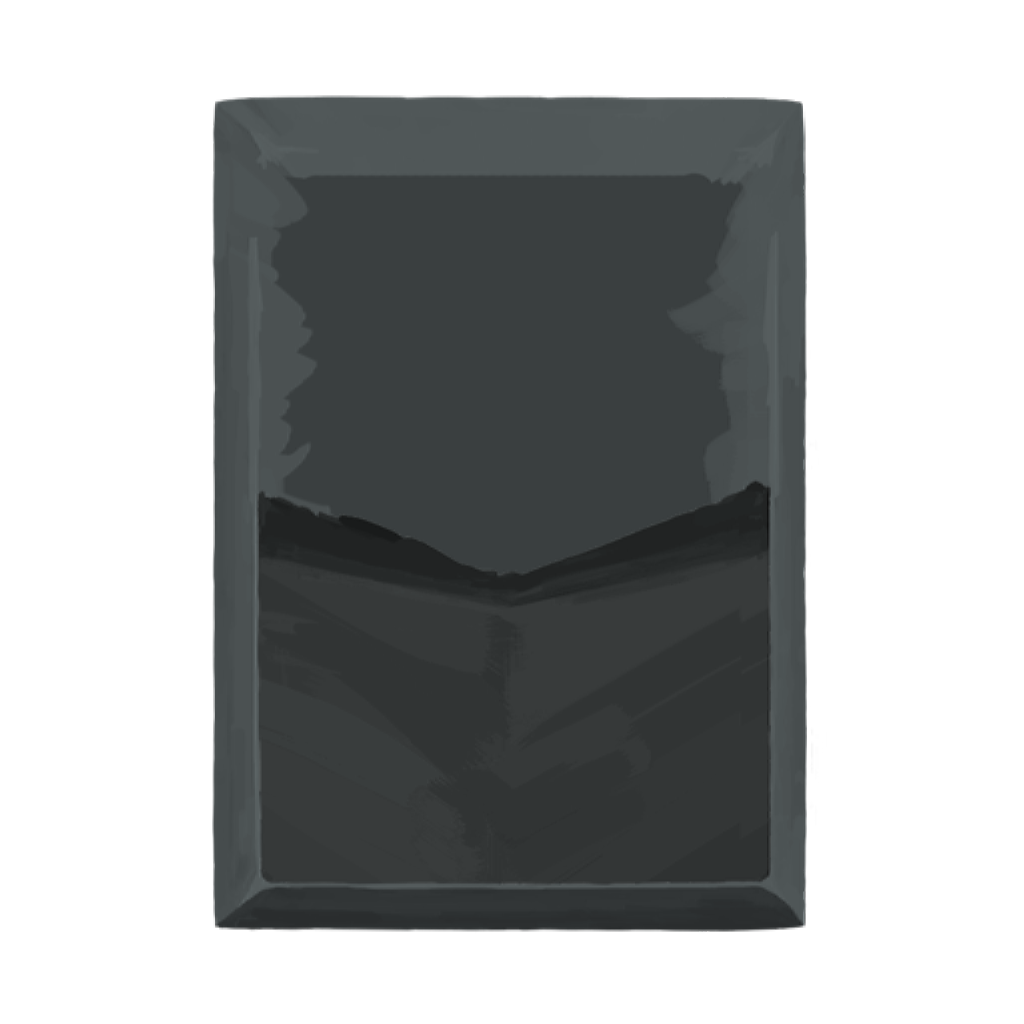
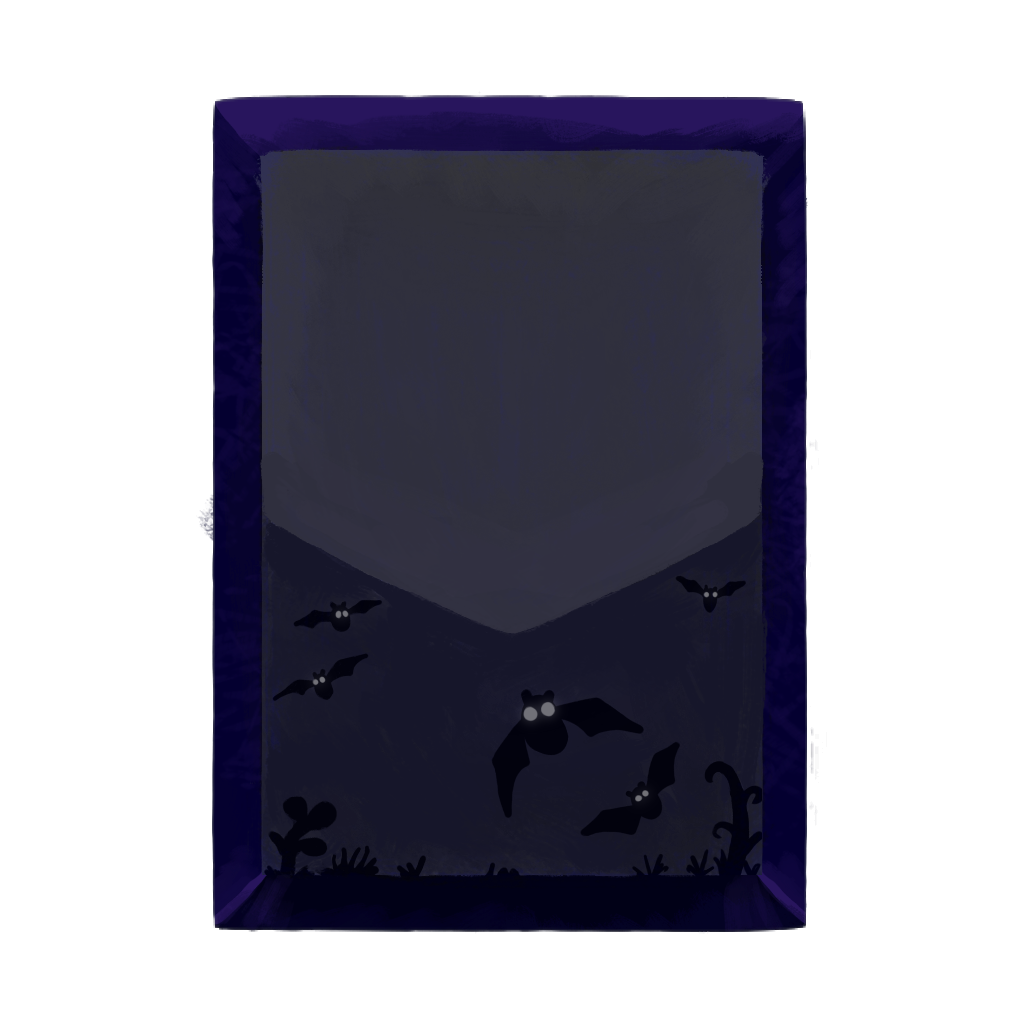
Reworked Fireball card to have its own background and (fake) type.

diff --git a/src/main/java/wibblywitch/cards/spellcards/AbstractSpellCard.java b/src/main/java/wibblywitch/cards/spellcards/AbstractSpellCard.java
@@ -1,0 +1,54 @@
+package wibblywitch.cards.spellcards;
+
+import basemod.patches.com.megacrit.cardcrawl.screens.compendium.CardLibraryScreen.NoCompendium;
+import com.badlogic.gdx.graphics.g2d.SpriteBatch;
+import com.megacrit.cardcrawl.cards.AbstractCard;
+import com.megacrit.cardcrawl.characters.AbstractPlayer;
+import com.megacrit.cardcrawl.core.Settings;
+import com.megacrit.cardcrawl.monsters.AbstractMonster;
+import wibblywitch.cards.BaseCard;
+import wibblywitch.character.WibblyWitch;
+import wibblywitch.util.CardStats;
+
+import static wibblywitch.WibblyWitchMod.characterPath;
+
+@NoCompendium
+public class AbstractSpellCard extends BaseCard {
+    public static final String ID = makeID(AbstractSpellCard.class.getSimpleName());
+    public static final CardStats info = new CardStats(
+            WibblyWitch.Enums.CARD_COLOR,
+            AbstractCard.CardType.SKILL,
+            AbstractCard.CardRarity.SPECIAL,
+            AbstractCard.CardTarget.NONE,
+            -2
+    );
+    public AbstractSpellCard() {
+        // This shouldn't ever happen, it's just here to make the game happy.
+        super(ID, info);
+    }
+
+    public AbstractSpellCard(String newID) {
+        super(newID, info);
+        // Spell cards can use unique backgrounds!
+        setBackgroundTexture(characterPath("cardback/bg_attack.png"), characterPath("cardback/bg_attack_p.png"));
+    }
+
+    @Override
+    public void render(SpriteBatch sb) {
+        // Cursed solution, avert your eyes.
+        String oldText = TEXT[1];
+        TEXT[1] = "Spell";
+        if (!Settings.hideCards) {
+            this.render(sb, false);
+        }
+        TEXT[1] = oldText;
+    }
+
+    @Override
+    public void use(AbstractPlayer abstractPlayer, AbstractMonster abstractMonster) {
+    }
+
+    public AbstractCard makeCopy() {
+        return new AbstractSpellCard(ID);
+    }
+}

diff --git a/src/main/java/wibblywitch/cards/PrepareFireball.java b/src/main/java/wibblywitch/cards/PrepareFireball.java
@@ -1,22 +1,20 @@
 package wibblywitch.cards;
 
-import com.megacrit.cardcrawl.actions.AbstractGameAction;
-import com.megacrit.cardcrawl.actions.common.DamageAction;
-import com.megacrit.cardcrawl.actions.defect.ChannelAction;
 import com.megacrit.cardcrawl.cards.AbstractCard;
-import com.megacrit.cardcrawl.cards.DamageInfo;
 import com.megacrit.cardcrawl.characters.AbstractPlayer;
 import com.megacrit.cardcrawl.monsters.AbstractMonster;
 import wibblywitch.actions.PrepareAction;
+import wibblywitch.cards.spellcards.AbstractSpellCard;
+import wibblywitch.cards.spellcards.FireballSpell;
 import wibblywitch.character.WibblyWitch;
 import wibblywitch.orbs.FireballOrb;
 import wibblywitch.util.CardStats;
 
-public class Fireball extends BaseCard {
+public class PrepareFireball extends BaseCard {
     private static final int DAMAGE = 6;
     private static final int UPG_DAMAGE = 2;
 
-    public static final String ID = makeID(Fireball.class.getSimpleName());
+    public static final String ID = makeID(PrepareFireball.class.getSimpleName());
     public static final CardStats info = new CardStats(
             WibblyWitch.Enums.CARD_COLOR,
             CardType.SKILL,
@@ -24,7 +22,7 @@ public class Fireball extends BaseCard {
             CardTarget.ENEMY,
             0
     );
-    public Fireball() {
+    public PrepareFireball() {
         super(ID, info);
 
         this.cardsToPreview = new FireballSpell();
@@ -39,6 +37,6 @@ public class Fireball extends BaseCard {
 
     @Override
     public AbstractCard makeCopy(){
-        return new Fireball();
+        return new PrepareFireball();
     }
 }

diff --git a/src/main/java/wibblywitch/cards/spellcards/FireballSpell.java b/src/main/java/wibblywitch/cards/spellcards/FireballSpell.java
@@ -1,0 +1,14 @@
+package wibblywitch.cards.spellcards;
+
+import basemod.patches.com.megacrit.cardcrawl.screens.compendium.CardLibraryScreen.NoCompendium;
+import wibblywitch.WibblyWitchMod;
+
+@NoCompendium
+public class FireballSpell extends AbstractSpellCard{
+    public static final String ID = makeID(FireballSpell.class.getSimpleName());
+
+    public FireballSpell() {
+        super(ID);
+        WibblyWitchMod.logger.info(ID);
+    }
+}
